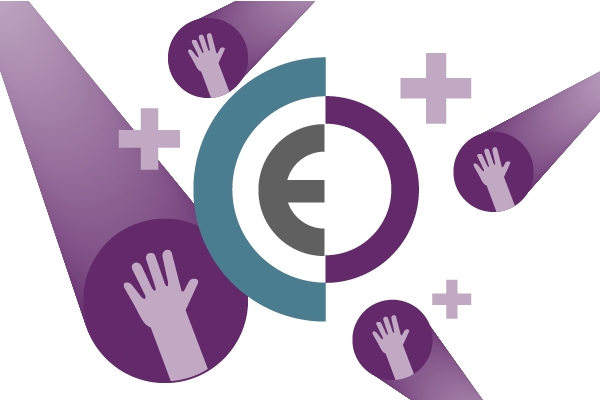
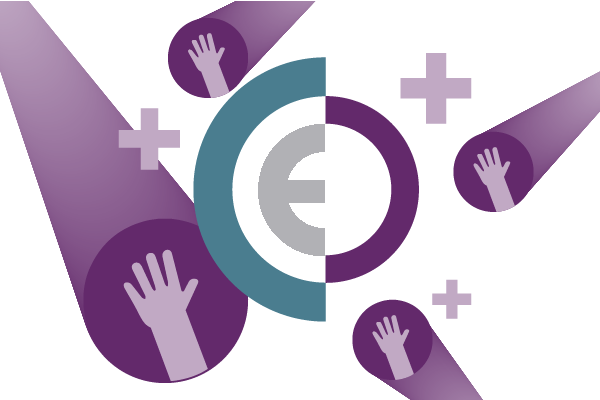
fixed broken html on guide intro, removed all unused images, change image colors to brand colors on used images, added how to edit help

Changed region(s): [[0.42, 0.3, 0.54, 0.66]]

diff --git a/discovery/web/templates/playground.html b/discovery/web/templates/playground.html
@@ -16,80 +16,101 @@
   </div>
   <div class="jumbotron bg-light row">
     <div class="col-sm-12 p-5 message mb-4">
-      <div class="text-center">
-        <img alt="discovery" class="m-5 w-75 rounded" src="/static/img/create-schema.jpg" />
-      </div>
       <h1 class="text-center text-muted">What is a schema?</h1>
-      <p class="text-muted">
-        The term "schema" refers to the organization of data as a blueprint and can be thought of as the graphical depiction of the database structure.
-        A schema specifies the facts that can enter a database, or those of interest to the possible end-users.
-      </p>
-      <p class="text-muted">
-        A schema contains classes and properties, classes can be thought as a set of 'types', each associated with a set of properties. <i>Eg. class <a href="https://schema.org/Person" target="_blank">Person</a> has property <a href="https://schema.org/birthDate" target="_blank">birthDate</a></i>
-      </p>
-      <p class="text-muted">
-        Our <a href="/registry">registry</a> includes classes from <a target="_blank" href="https://schema.org/docs/schemas.html">Schema.org</a>'s schema. Schema.org provides an extensive collection of schema classes in addition to schema classes by the research community.'
-      </p>
+      <div class="alert alert-light m-5 p-3">
+        <p class="text-muted">
+          The term "schema" refers to the organization of data as a blueprint and can be thought of as the graphical depiction of the database structure.
+          A schema specifies the facts that can enter a database, or those of interest to the possible end-users.
+        </p>
+        <p class="text-muted">
+          A schema contains classes and properties, classes can be thought as a set of 'types', each associated with a set of properties. <i>Eg. class <a href="https://schema.org/Person" target="_blank">Person</a> has property <a href="https://schema.org/birthDate" target="_blank">birthDate</a></i>
+        </p>
+        <p class="text-muted">
+          Our <a href="/registry">registry</a> includes classes from <a target="_blank" href="https://schema.org/docs/schemas.html">Schema.org</a>'s schema. Schema.org provides an extensive collection of schema classes in addition to schema classes by the research community.'
+        </p>
+      </div>
       <div class="alert grad text-center text-light mb-0">
         <h4>Already have a schema?</h4>
       </div>
       <div class="text-center alert alert-secondary" >
-        <img width="300px" src="/static/img/visualize-01.png" style="border-radius:20px;" alt="join us"/>
+
         <h4 class="logoText">Visualize and register your schema</h4>
-        <p class="text-muted">
-          <b class="mainTextDark">Visualize</b> your schema in a way easy to undertand.  The visualization can be registered as a homepage for your schema so you can share it.
-        </p>
-        <p class="text-muted">
-          <b class="mainTextDark">Register</b> your schema so others will be able to use your schema as a starting point to build their schema.
-        </p>
-        <form id="linkForm" class="col-sm-6" style="margin: 0 auto;">
-          <div class="form-group">
-            <input style="margin:auto;"  v-model="input" id="urlform" autocomplete="" required ref="my_input" class="form-control" type="url" placeholder="Paste your link here" required="">
-            <button :disabled="!input.length" @click.prevent="getFormValues()" style="margin:10px;" class="btn themeButton text-light" type="submit">Visualize</button>
+        <div class="row">
+          <div class="col-sm-6">
+            <img class="w-75" src="/static/img/visualize-01.png" alt="Visualize"/>
+            <p class="text-muted">
+              <b class="mainTextDark">Visualize</b> your schema in a way easy to undertand.  The visualization can be registered as a homepage for your schema so you can share it.
+            </p>
           </div>
-          <div v-if=loading class="loader">
-            <img src="./static/img/ripple.svg"/>
+          <div class="col-sm-6">
+            <img class="w-75" src="/static/img/registerschema.png" alt="Register"/>
+            <p class="text-muted">
+              <b class="mainTextDark">Register</b> your schema so others will be able to use your schema as a starting point to build their schema.
+            </p>
           </div>
-          <small class="text-muted">Examples:</small>
-          <small class="badge badge-pill badge-secondary pointer mr-1"
-          @click="input = 'https://raw.githubusercontent.com/data2health/schemas/biothings/biothings/biothings_curie.jsonld'">
-            <i class="fas fa-question-circle" data-tippy="BioThings Schema"></i> BioThings Schema
-          </small>
-          <small class="badge badge-pill badge-secondary pointer mr-1"
-          @click="input = 'https://raw.githubusercontent.com/data2health/schemas/master/Dataset/CTSADataset.json'">
-            <i class="fas fa-question-circle" data-tippy="CTSA Schema"></i> CTSA Dataset Schema
-          </small>
-        </form>
+        </div>
+        <div class="alert p-4 alert-dark">
+          <h4 class="logoText">Start Here</h4>
+          <form id="linkForm" class="col-sm-6" style="margin: 0 auto;">
+            <div class="form-group">
+              <input style="margin:auto;"  v-model="input" id="urlform" autocomplete="" required ref="my_input" class="form-control" type="url" placeholder="Paste your link here" required="">
+              <button :disabled="!input.length" @click.prevent="getFormValues()" style="margin:10px;" class="btn themeButton text-light" type="submit">Visualize</button>
+            </div>
+            <div v-if=loading class="loader">
+              <img src="./static/img/ripple.svg"/>
+            </div>
+            <small class="text-muted">Examples:</small>
+            <small class="badge badge-pill badge-secondary pointer mr-1"
+            @click="input = 'https://raw.githubusercontent.com/data2health/schemas/biothings/biothings/biothings_curie.jsonld'">
+              <i class="fas fa-question-circle" data-tippy="BioThings Schema"></i> BioThings Schema
+            </small>
+            <small class="badge badge-pill badge-secondary pointer mr-1"
+            @click="input = 'https://raw.githubusercontent.com/data2health/schemas/master/Dataset/CTSADataset.json'">
+              <i class="fas fa-question-circle" data-tippy="CTSA Schema"></i> CTSA Dataset Schema
+            </small>
+          </form>
+        </div>
       </div>
     </div>
     <div class="col-sm-12 p-5 message mb-4">
       <h1 class="text-center text-muted">Why do I need a schema?</h1>
-      <p class="text-muted">
-        A schema is a way to logically group objects such as tables, views, stored procedures etc.
-        In addition to providing a structure to your database, data based on an existing schema or extended from one makes your data <a target="_blank" href="https://en.wikipedia.org/wiki/Interoperability">interopeable</a>.
-      </p>
-      <p class="text-muted">
-        Furthermore, by creating a schema derived from an existing schema, you will be contributing to the <a target="_blank" href="https://en.wikipedia.org/wiki/Reusability">data reusability</a> efforts to make data more <a target="_blank" href="https://www.go-fair.org/fair-principles/">FAIR</a>.
-      </p>
+      <div class="alert alert-light m-5 p-3">
+        <p class="text-muted">
+          A schema is a way to logically group objects such as tables, views, stored procedures etc.
+          In addition to providing a structure to your database, data based on an existing schema or extended from one makes your data <a target="_blank" href="https://en.wikipedia.org/wiki/Interoperability">interopeable</a>.
+        </p>
+        <p class="text-muted">
+          Furthermore, by creating a schema derived from an existing schema, you will be contributing to the <a target="_blank" href="https://en.wikipedia.org/wiki/Reusability">data reusability</a> efforts to make data more <a target="_blank" href="https://www.go-fair.org/fair-principles/">FAIR</a>.
+        </p>
+      </div>
       <div class="alert grad text-center text-light mb-0">
         <h4>Don't have a schema?</h4>
       </div>
       <div class="text-center alert alert-secondary" >
-        <img width="300px" src="/static/img/create-01.png" style="border-radius:20px;" alt="join us"/>
         <h4 class="logoText">Create a schema</h4>
-        <p class="text-muted">
-          <b class="mainTextDark">Create</b> your own schema by defining a more specific version of an existing schema class and create a schema tailored to your needs.
-        </p>
-        <h4 class="logoText">Create from common starting points:</h4>
-        <div class="d-flex align-items-center justify-content-around">
-          <template v-for='item in startingPoints'>
-            <preset-box :preset='item'></preset-box>
-          </template>
+        <div class="row">
+          <div class="col-sm-6 m-auto">
+            <img class="w-75" src="/static/img/create-01.png" alt="Create"/>
+            <p class="text-muted w-75 m-auto">
+              <b class="mainTextDark">Create</b> your own schema by defining a more specific version of an existing schema class and create a schema tailored to your needs.
+            </p>
+          </div>
         </div>
-        <div class="p-5">
-          <h4 class="logoText">Or search for a different starting point in the</h4>
-          <h2 class="logoText">SCHEMA REGISTRY</h2>
-          <a role="button" class="btn themeButton text-light m-3" href="/registry">Continue</a>
+        <div class="alert p-4 alert-dark mt-3">
+          <h4 class="logoText">
+            Create from common starting points (&starf;):
+          </h4>
+
+          <div class="d-flex align-items-center justify-content-around">
+            <template v-for='item in startingPoints'>
+              <preset-box :preset='item'></preset-box>
+            </template>
+          </div>
+          <div class="p-5">
+            <h4 class="text-muted">OR <br />Search for a different starting point in the</h4>
+            <h2 class="logoText">SCHEMA REGISTRY</h2>
+            <a role="button" class="btn themeButton text-light m-3" href="/registry">Continue</a>
+          </div>
         </div>
       </div>
     </div>
@@ -107,7 +128,7 @@ Vue.component('preset-box', {
   props: ['preset'],
   template: `<div class="message text-center text-muted p-4">
               <h4 class="m-1">
-              <i v-if="preset.name === 'Dataset'" class="far fa-calendar"></i>
+              <span>&starf;</span>
               <span v-text='preset.name'></span></h4>
               <small><span v-text='preset.description'></span></small>
               <br />

diff --git a/discovery/web/templates/guide-intro.html b/discovery/web/templates/guide-intro.html
@@ -13,31 +13,28 @@
     <a href="/dataset" class="">See All Metadata Available<i class="fas fa-chevron-right"></i></a>
   </div>
   <div class="message text-center mb-5 ">
-    <img alt="discovery" class="m-5 w-75 rounded" src="/static/img/discovery.jpg" />
     <h1 class="m-3 logoText">Discovery Guide</h1>
-    <p class="text-muted">
-      This guide aims to boost the discovery of your data by guiding you through a simple process <br />
-      and providing you with the tools to make your data more <a data-tippy="Learn More About FAIR Principles" data-tippy-theme="light" class="mainTextLight bold" target="_blank" href="https://www.go-fair.org/fair-principles/">FAIR</a>.
-    </p>
-    <h5 class="text-muted">(Findable, Accessible, Interopeable, Reusable)</h5>
-    <br />
-    <p class="text-muted">
-      To make data <p class="text-muted">
-  Create, Visualize and Register Your Own Schema
-<b class="mainTextLight">reusable</b> first we need to make that data <p class="text-muted">
-  Create, Visualize and Register Your Own Schema
-<b class="mainTextLight">findable</b>. <br />Not only by humans but also by computers and search engines.
-    </p>
-    <p class="text-muted">
-      Each search engine or <a href="/schema-playground">schemas</a> have their own required set of fields. <br />Fulfilling those requirements will make your data more <p class="text-muted">
-  Create, Visualize and Register Your Own Schema
-<b class="mainTextLight">findable</b>.
-    </p>
-    <p class="text-muted">
-      Use our <a target="_blank" href="/faq#how-to-use-guide">guide</a> to optimise the findability of your dataset in a fast and easy way!
-    </p>
+    <div class="alert alert-light m-5 p-3">
+      <p class="text-muted">
+        This guide aims to boost the discovery of your data by guiding you through a simple process
+        and providing you with the tools to make your data more <a data-tippy="Learn More About FAIR Principles" data-tippy-theme="light" class="mainTextLight bold" target="_blank" href="https://www.go-fair.org/fair-principles/">FAIR</a>.
+      </p>
+      <h5 class="logoText">Findable, Accessible, Interopeable, and Reusable</h5>
+      <img class="w-75 m-5" src="/static/img/fair.png" alt="FAIR"/>
+
+      <br />
+      <p class="text-muted">
+        To make data <b>reusable</b> first we need to make that data <b>findable</b> and <b>accessible</b>. Not only by humans but also by computers and search engines.
+      </p>
+      <p class="text-muted">
+        Each search engine or <a href="/schema-playground">schemas</a> have their own required set of fields. Fulfilling those requirements will make your data more <b>findable</b>.
+      </p>
+      <p class="text-muted">
+        Use our <a target="_blank" href="/faq#how-to-use-guide">guide</a> to optimise the findability of your dataset in a fast and easy way!
+      </p>
+    </div>
     <div class="jumbotron grad text-light text-center mb-5 mt-5">
-      <img width="500px" src="/static/img/discoverable-01.png" style="border-radius:20px;" alt="join us"/>
+      <img class="w-50" src="/static/img/discoverable-01.png" style="border-radius:20px;" alt="join us"/>
       <h1 class="m-3">Make Your Dataset Discoverable</h1>
       <a class="btn themeButton text-light" role="button" href="/guide">Start Here</a>
     </div>

diff --git a/discovery/web/templates/faq.html b/discovery/web/templates/faq.html
@@ -319,6 +319,23 @@ code {
                                   <small>Simply click on the <b>Edit Privacy</b> button and confirm the new status.</small>
                                 </p>`
                     },
+                    {
+                      'anchor':'edit-dataset',
+                      'question':'How do I edit registered datasets?',
+                      'answer':`<p>
+                                  Head over to the <a href="/guide">Discovery Guide</a>. After choosing a starting point click on the <b>Load Existing Data</b> option to choose loading from a <b>URL</b> or <b>Registered</b> items. Choose an option and simply enter the direct URL or choose by name if choosing items registered to your name.
+                                </p>
+                                <p>
+                                  All available matching fields will be populated with your data. Note: If you change the <b>identifier</b> field it will result in creating a new registry item.
+                                </p>
+                                <p class="text-danger">
+                                  Note: Making any changes to the data will revert its privacy status to PUBLIC but you can change the setting once your are done in your dashboard.
+                                </p>
+                                <p class="alert alert-info text-center">
+                                  <img class="m-2 w-75" src="./static/img/editmeta.jpg" alt="dashboard"/><br />
+                                  <small>Click on the <b>Load Existing Data</b> edit existing data.</small>
+                                </p>`
+                    },
                   ]
                 }
               ]

diff --git a/discovery/web/templates/dashboard.html b/discovery/web/templates/dashboard.html
@@ -141,6 +141,13 @@
               </div>
             </div>
           </template>
+          <template v-if="publicDatasets || privateDatasets">
+            <div class="alert alert-secondary mt-3">
+              <small>
+                Want to edit a registered dataset? Learn how <a target="_blank" href="/faq#edit-dataset">HERE</a>
+              </small>
+            </div>
+          </template>
         </div>
       </div>
     </div>
